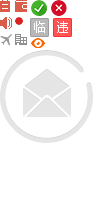
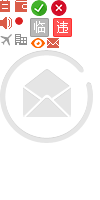
modified b2g_management.css

Changed region(s): [[0.45, 0.18, 0.6, 0.24]]

diff --git a/企业集团B2G/企业维护/编辑员工信息.html b/企业集团B2G/企业维护/编辑员工信息.html
@@ -141,23 +141,46 @@
                             </td>
                           </tr>
                           <tr>
-                          	<td class="tdTit"><em>*</em>职务：</td>
-                            <td>
-                                <select data-role="dropdownlist" style="width:186px;">
-                                     <option>普通员工</option>
-                                     <option>差旅秘书</option>
-                                     <option>审批人</option>
-                                </select>
-                            </td>
-                            <td> </td>
-                            <td class="tdTit">用户角色：</td>
-                            <td colspan="4">
-                                  <label class="groupSet"><em>管理员</em> <i></i></label>
-                                  <label class="groupSet"><em>商旅秘书</em> <i></i></label>
-                                  <label class="groupSet"><em>员工</em> <i></i></label>
-                                  <label class="groupSet"><em>审批人</em> <i></i></label>
-                                  <label class="groupSet moreRole"><em>. . .</em></label>
-                                  <span id="sel_customerRole">请选择</span>
+                          	<td class="tdTit" style="vertical-align:top;"><em>*</em>职务：</td>                            
+                            <td colspan="7">
+                                <ul class="groupList clearfix">
+                                    <li class="firstGroupList">                                         
+                                          <label class="groupSet"><em>管理员</em></label>
+                                          <label class="groupSet"><em>商旅秘书</em></label>
+                                          <label class="groupSet"><em>管理员</em></label>
+                                          <label class="groupSet"><em>商旅秘书</em></label>
+                                          <label class="groupSet"><em>商旅秘书</em></label>
+                                          <label class="groupSet"><em>员工</em></label>
+                                          <label class="groupSet"><em>产品说这里会有10个字</em></label>                                          
+                                          <label class="groupSet"><em>商旅秘书</em></label>                                          
+                                          <label class="groupSet"><em>商旅秘书</em></label>
+                                          <label class="groupSet"><em>商旅秘书</em></label>
+                                          <label class="groupSet"><em>商旅秘书</em></label>
+                                          <label class="groupSet"><em>商旅秘书</em></label>
+                                          <label class="groupSet"><em>商旅秘书</em></label>
+                                          <label class="groupSet"><em>商旅秘书</em></label>
+                                    </li>
+                                    <li class="secondGroupList">                                    
+                                          <span id="sel_customerRole">请选择</span>
+                                    </li>
+                                </ul>
+                            </td>                            
+                          </tr>
+                          <tr>
+                            <td class="tdTit" style="vertical-align:top;">用户角色：</td>
+                            <td colspan="7">
+                                  <ul class="groupList clearfix">
+                                    <li class="firstGroupList">                                         
+                                          <label class="groupSet"><em>管理员</em></label>
+                                          <label class="groupSet"><em>商旅秘书</em></label>
+                                          <label class="groupSet"><em>员工</em></label>
+                                          <label class="groupSet"><em>员工</em></label>
+                                          <label class="groupSet"><em>产品说这里会有10个字</em></label>
+                                    </li>
+                                    <li class="secondGroupList">                                    
+                                          <span id="sel_customerRole">请选择</span>
+                                    </li>
+                                </ul>
                             </td>                            
                           </tr>
                            <tr>
@@ -546,7 +569,7 @@
             offsetY:31,
             openEffect:"slideDown",
             closeEffect:"slideUp",
-            css:{padding:0,"border-color":"#BCBCBC",background:"#ffffff",width:"90px"}
+            css:{padding:0,"border-color":"#BCBCBC",background:"#ffffff",width:"142px"}
         });
 	});
 </script>

diff --git a/采购商/酒店/酒店搜索结果页（重做）.html b/采购商/酒店/酒店搜索结果页（重做）.html
@@ -223,14 +223,14 @@
                         <table>
                             <thead>
                                 <tr>
-                                    <td class="roomTypeGroupFirstField" width="260">房型</td>
+                                    <td class="roomTypeGroupFirstField" width="240">房型</td>
                                     <td width="150">床型</td>
                                     <td width="130">早餐</td>
                                     <td width="75">宽带</td>
                                     <td width="80">规定</td>
                                     <td width="100">&nbsp;</td>
                                     <td width="100">销售价</td>
-                                    <td width="80">&nbsp;</td>
+                                    <td width="85">&nbsp;</td>
                                 </tr>
                             </thead>
                         </table>
@@ -238,14 +238,14 @@
                             <table>
                                 <tbody>
                                     <tr>
-                                        <td width="260" class="tdTitle"><b>贵宾房</b></td>
+                                        <td width="240" class="tdTitle"><b>贵宾房</b></td>
                                         <td width="150"> </td>
                                         <td width="130"> </td>
                                         <td width="75"> </td>
                                         <td width="80"> </td>
                                         <td width="100"> </td>
                                         <td width="100"> </td>
-                                        <td width="80">  </td>
+                                        <td width="85">  </td>
                                     </tr>
                                 <tr>
                                     <td class="roomTypeGroupDetailFirstField"><i class="ico_gift"></i>特惠含早</td>
@@ -305,14 +305,14 @@
                             <table>
                                 <tbody>
                                     <tr>
-                                        <td width="260" class="tdTitle"><b>高级大床房(无窗)</b></td>
+                                        <td width="240" class="tdTitle"><b>高级大床房(无窗)</b></td>
                                         <td width="150"> </td>
                                         <td width="130"> </td>
                                         <td width="75"> </td>
                                         <td width="80"> </td>
                                         <td width="100"> </td>
                                         <td width="100"> </td>
-                                        <td width="80">  </td>
+                                        <td width="85">  </td>
                                     </tr>
                                 <tr>
                                     <td class="roomTypeGroupDetailFirstField"><i class="ico_gift"></i>特惠含早</td>
@@ -372,14 +372,14 @@
                             <table>
                                 <tbody>
                                     <tr>
-                                        <td width="260" class="tdTitle"><b>高级房</b></td>
+                                        <td width="240" class="tdTitle"><b>高级房</b></td>
                                         <td width="150"> </td>
                                         <td width="130"> </td>
                                         <td width="75"> </td>
                                         <td width="80"> </td>
                                         <td width="100"> </td>
                                         <td width="100"> </td>
-                                        <td width="80">  </td>
+                                        <td width="85">  </td>
                                     </tr>
                                 <tr>
                                     <td class="roomTypeGroupDetailFirstField"><i class="ico_gift"></i>特惠含早</td>

diff --git a/static/css/b2g_management.css b/static/css/b2g_management.css
@@ -937,9 +937,13 @@
 .connectLine{ border:2px solid #ffc29a; height:45px; width:0px; position:absolute; left:4%; top:-50px;}
 .groupSet{ background:#f0fdff; border:1px solid #59ddef; color:#666666; display:inline-block; padding:6px 10px; vertical-align:middle; min-width:70px; position:relative; margin:0 3px 8px 0;}
 .groupSet:hover{ background:#dcf7fb; color:#333333;}
-.groupSet i{ position:absolute; right:7%; top:40%; background:url(../images/b2g/smallImg.png) no-repeat -191px -21px; width:7px; height:7px; vertical-align:middle;}
+.groupSet i{ position:absolute; right:7%; top:40%; background:url(../images/b2g/smallImg.png) no-repeat -191px -21px; width:7px; height:7px; vertical-align:middle; cursor:pointer;}
 .groupCont{ float:left; width:700px; margin-right:30px; word-break:break-all; word-wrap:break-word;}
 .sectModel{ border-bottom:1px solid #e1e1e1;}
+.groupList li{ float:left;}
+.groupList .firstGroupList{ max-width:760px;}
+.groupList .secondGroupList{ margin:4px 0 0 5px; display:block;}
+.k-ie7 .groupList .secondGroupList{ margin-top:0; padding:7px 0;}
 
 /*个人信息*/
 .personalBox {
@@ -1082,7 +1086,7 @@
 .titTop .orangeBtn{ font-size:16px; margin-left:10px; vertical-align:middle; padding:4px 25px;}
 .k-ie7 .titTop .orangeBtn{ padding:2px 15px;}
 
-.infoCon .groupSet{ padding:5px 10px; margin:0 2px 0 0;}
+.infoCon .groupSet{ padding:5px 9px; margin:0 2px 8px 0;}
 .infoCon .moreRole{ min-width:18px;}
 .otherInfo .twofont{color:#999999; font-weight:500; font-size:12px;}
 
@@ -1098,10 +1102,10 @@
     border-bottom: 0;
 }
 #sel_customerRole{
-    padding:5px 38px 5px 10px;
+    padding:5px 90px 5px 10px;
     vertical-align: middle;
     border:1px solid #c7c7c7;
-    background: url("../images/b2g/select_gray_off.png") no-repeat 90% 50%;
+    background: url("../images/b2g/select_gray_off.png") no-repeat 92% 50%;
     color:#676767;
     cursor: pointer;
 }

diff --git a/static/css/store_hotel.css b/static/css/store_hotel.css
@@ -100,20 +100,19 @@ table{width:100%}
 	width: 29px;
 	height: 29px;
 	margin-right: 3px;
-	background:url(../images/store/hotelPic.png) no-repeat;
 	cursor: pointer;
 }
 .icon-list .ico-wifi {
-	background-position: 0 -22px;
+	background:url(../images/store/hotelPic.png) no-repeat 0 -22px !important;
 }
 .icon-list .ico-park {
-	background-position: 0 -54px;
+	background:url(../images/store/hotelPic.png) no-repeat 0 -54px !important;
 }
 .icon-list .ico-breakfast {
-	background-position: 0 -87px;
+	background:url(../images/store/hotelPic.png) no-repeat 0 -87px !important;
 }
 .icon-list .ico-swimming {
-	background-position: 0 -120px;
+	background:url(../images/store/hotelPic.png) no-repeat 0 -120px !important;
 }
 .roomTypeDetailContainer .greenFont{ font-weight:bold; color:#317131;}
 

diff --git a/static/css/store.css b/static/css/store.css
@@ -120,7 +120,7 @@ input{
 }
 .main-header .QQ{
     position: absolute;
-    top: 51px;
+    top: 48px;
     right: 10px;
     text-indent: 25px;
     background:url("../images/store/ico_onlineQQ.gif") 0 50% no-repeat;
@@ -232,10 +232,11 @@ input{
 }
 .icon-message{
     position:absolute;
-    width:20px;
-    height:14px;
-    background:url(../images/store/i1.png) 50% 50% no-repeat;
-    left:7px;
+    width:12px;
+    height:10px;
+    background:url(../images/store/smallPic.png) no-repeat -47px -38px;
+    left:12px;
+	top:10px;
 }
 .notice-icon{
 	position:absolute;
